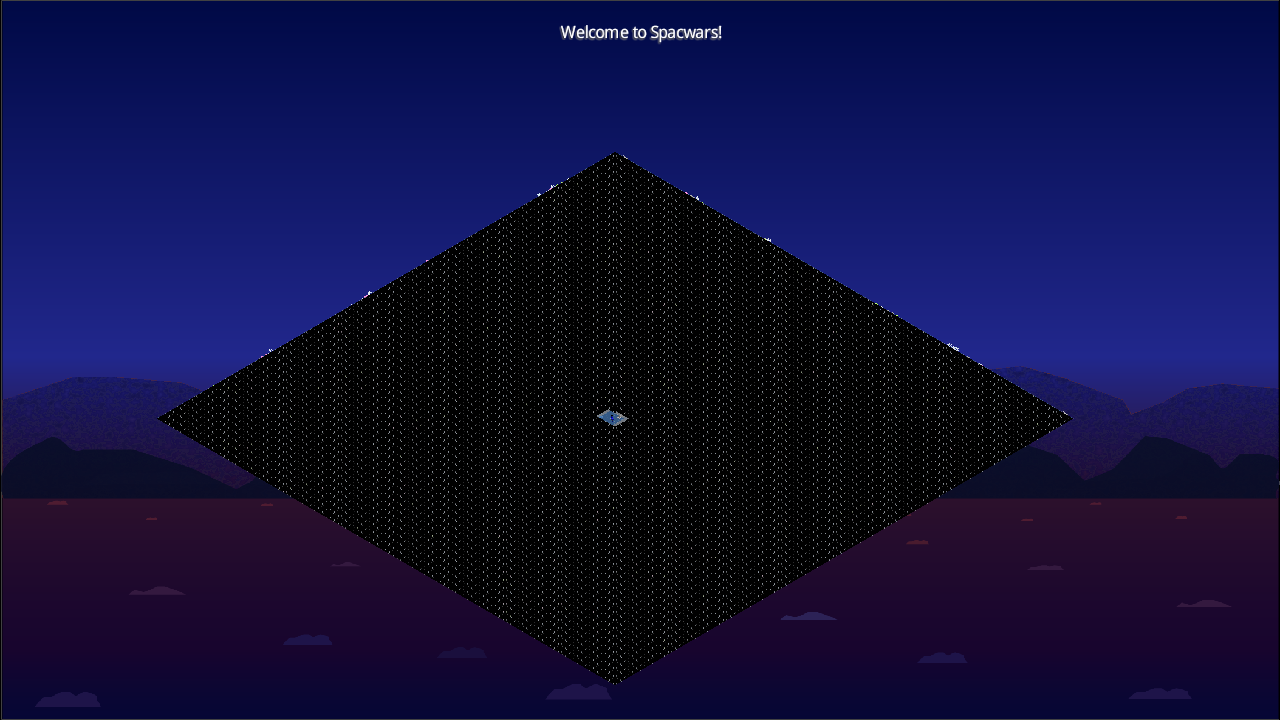
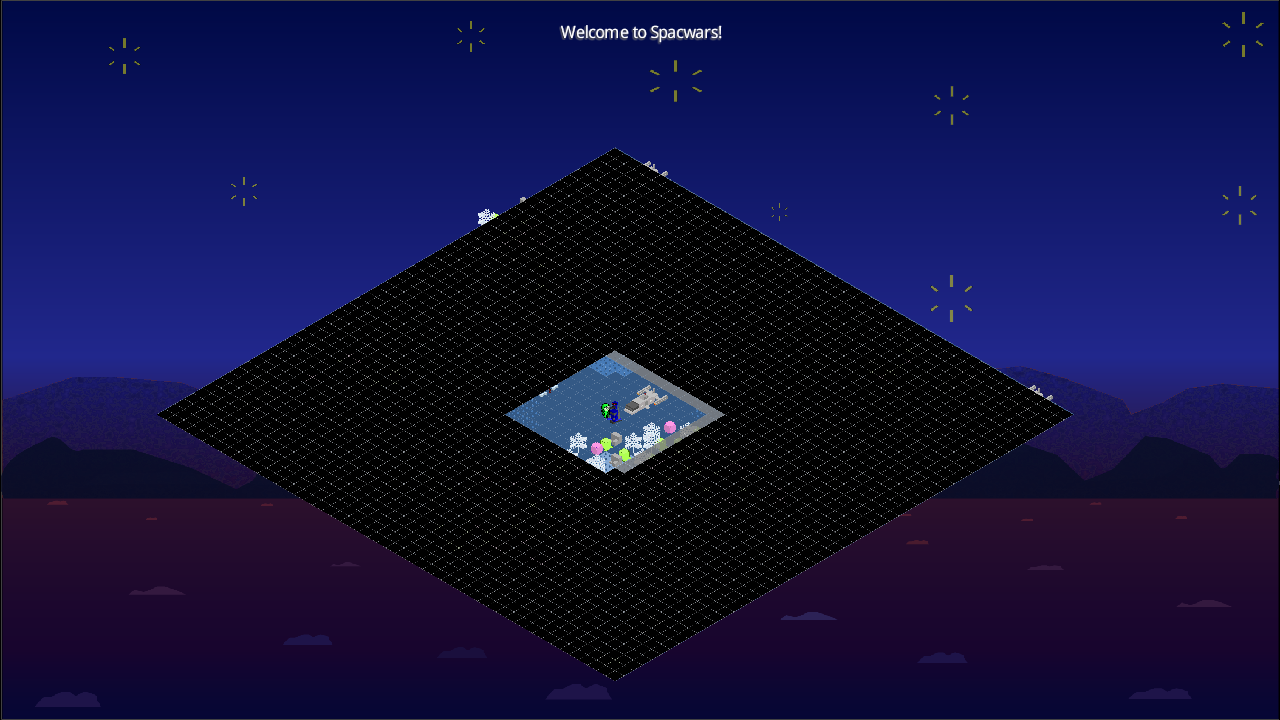
clean up fog of war

Changed region(s): [[0.125, 0.2139, 0.8438, 0.9472]]

diff --git a/marswars/src/main/java/com/deco2800/marswars/entities/Spacman.java b/marswars/src/main/java/com/deco2800/marswars/entities/Spacman.java
@@ -27,7 +27,6 @@ import java.util.Random;
  * Created by timhadwen on 19/7/17.
  */
 public class Spacman extends BaseEntity implements Tickable, Clickable, HasHealth, HasOwner {
-	LineOfSight lineOfSight;
 
 	private static final Logger LOGGER = LoggerFactory.getLogger(Spacman.class);
 
@@ -65,25 +64,9 @@ public class Spacman extends BaseEntity implements Tickable, Clickable, HasHealt
 		this.addNewAction(ActionType.MOVE);
 		this.addNewAction(ActionType.BUILD);
 		this.nextAction = null;
-		int fogScaleSize=5;//this number should always be odd (the size of the line of sight edge
-//
-//		lineOfSight = new LineOfSight(posX,posY,posZ,fogScaleSize,fogScaleSize);
-//		FogWorld fogWorld = GameManager.get().getFogWorld();
-//		fogWorld.addEntity(lineOfSight,fogScaleSize);
+
 	}
 
-	/**
-	 * Sets the position of this spacman
-	 * @param x
-	 * @param y
-	 * @param z
-	 */
-	@Override
-	public void setPosition(float x, float y, float z) {
-		super.setPosition(x, y, z);
-		//lineOfSight.setPosition(x,y,z);
-//this function is never used
-	}
 
 	/**
 	 * Sets the position X
@@ -92,12 +75,12 @@ public class Spacman extends BaseEntity implements Tickable, Clickable, HasHealt
 	@Override
 	public void setPosX(float x) {
 		if(owner instanceof PlayerManager) {
-			modifyFogOfWarMap(false);
+			modifyFogOfWarMap(false,5);
 		}
 		super.setPosX(x);
-		//lineOfSight.setPosX(x);
+
 		if(owner instanceof PlayerManager) {
-			modifyFogOfWarMap(true);
+			modifyFogOfWarMap(true,5);
 		}
 
 	}
@@ -109,25 +92,15 @@ public class Spacman extends BaseEntity implements Tickable, Clickable, HasHealt
 	@Override
 	public void setPosY(float y) {
 		if(owner instanceof PlayerManager) {
-			modifyFogOfWarMap(false);
+			modifyFogOfWarMap(false,5);
 		}
 		super.setPosY(y);
-		//lineOfSight.setPosY(y);
 		if(owner instanceof PlayerManager) {
-			modifyFogOfWarMap(true);
+			modifyFogOfWarMap(true,5);
 		}
 
 	}
 
-	/**
-	 * Sets the position Z
-	 * @param z
-	 */
-	@Override
-	public void setPosZ(float z) {
-		super.setPosZ(z);
-		//lineOfSight.setPosZ(z);
-	}
 	/**
 	 * On tick method for the spacman
 	 * @param i
@@ -174,13 +147,6 @@ public class Spacman extends BaseEntity implements Tickable, Clickable, HasHealt
 		}
 	}
 
-	/**
-	 * Get the line of sight of this spacman
-	 * @return LineOfSight
-	 */
-	public LineOfSight getLineOfSight(){
-		return lineOfSight;
-	}
 
 	/**
 	 * On click method for the spacman

diff --git a/marswars/src/main/java/com/deco2800/marswars/entities/BaseEntity.java b/marswars/src/main/java/com/deco2800/marswars/entities/BaseEntity.java
@@ -353,7 +353,7 @@ public class BaseEntity extends AbstractEntity implements Selectable {
 		}
 	}
 
-	protected void modifyFogOfWarMap(boolean add) {
+	protected void modifyFogOfWarMap(boolean add,int scale) {
 
 		int left = (int) getPosX();
 		int right = (int) Math.ceil(getPosX() + getXLength());
@@ -363,9 +363,9 @@ public class BaseEntity extends AbstractEntity implements Selectable {
 		for (int x = left; x < right; x++) {
 			for (int y = bottom; y < top; y++) {
 				if (add) {
-					FogOfWarManager.sightRange(x,y,2,add);
+					FogOfWarManager.sightRange(x,y,scale,add);
 				} else {
-					FogOfWarManager.sightRange(x,y,2,add);
+					FogOfWarManager.sightRange(x,y,scale,add);
 				}
 			}
 		}

diff --git a/marswars/src/main/java/com/deco2800/marswars/entities/FogOfWarLayer.java b/marswars/src/main/java/com/deco2800/marswars/entities/FogOfWarLayer.java
@@ -9,15 +9,6 @@ package com.deco2800.marswars.entities;
  *
  */
 public class FogOfWarLayer extends AbstractEntity {
-    int fogScaleSize;
-
-    public void setFogScaleSize(int fogScaleSize){
-        this.fogScaleSize = fogScaleSize;
-    }
-
-    public int getFogScaleSize(){
-        return fogScaleSize;
-    }
 
     public FogOfWarLayer(float posX, float posY, float posZ, float xLength, float yLength, float zLength) {
         super(posX, posY, posZ, xLength, yLength, zLength);
@@ -34,8 +25,6 @@ public class FogOfWarLayer extends AbstractEntity {
     public void setPosition(float x, float y, float z) {
         super.setPosition(x, y, z);
     }
-
-
 
     /**
      * Sets the Position X

diff --git a/marswars/src/main/java/com/deco2800/marswars/managers/TextureManager.java b/marswars/src/main/java/com/deco2800/marswars/managers/TextureManager.java
@@ -58,7 +58,7 @@ public class TextureManager extends Manager {
         textureMap.put("transparent_tile",new Texture("resources/placeholderassets/transparent_tile.png"));
         textureMap.put("black_tile",new Texture("resources/placeholderassets/black_tile.png"));
         //Units
-        textureMap.put("ground_gray", new Texture("resources/placeholderassets/line-of-sight.png"));
+
         textureMap.put("spacman", new Texture("resources/placeholderassets/spacman.png"));
         textureMap.put("spacman_red", new Texture("resources/placeholderassets/spacman_red.png"));
         textureMap.put("spacman_blue", new Texture("resources/placeholderassets/spacman_blue.png"));

diff --git a/marswars/src/main/java/com/deco2800/marswars/managers/FogOfWarManager.java b/marswars/src/main/java/com/deco2800/marswars/managers/FogOfWarManager.java
@@ -41,22 +41,6 @@ public class FogOfWarManager extends Manager {
 	}
 
 	/**
-	 * Sets coordinate to a certain sight level.
-	 *
-	 * @param x the x coordinate
-	 * @param y the y coordinate
-	 * @param s 0, 1 or 2
-	 * @return true if set correctly and false otherwise
-	 */
-	public boolean setFog(int x, int y, int s) {
-		if (s != 0 || s != 1 || s != 2) {
-			return false;
-		}
-		fogOfWar.set(x, y, s);
-		return true;
-	}
-
-	/**
 	 * Gets the fog value of a coordinate
 	 *
 	 * @param x the x coordinate

diff --git a/marswars/src/test/java/com/deco2800/marswars/entities/SpacmanTest.java b/marswars/src/test/java/com/deco2800/marswars/entities/SpacmanTest.java
@@ -27,7 +27,6 @@ public class SpacmanTest {
 		assertEquals(man.getOwner(), null);
 		assertEquals(man.checkBackpack(), false);
 		assertFalse(man.isWorking());
-		//assertEquals(man.getLineOfSight(), new LineOfSight(1, 1, 1, 1, 1));
 	}
 	
 	@Test
